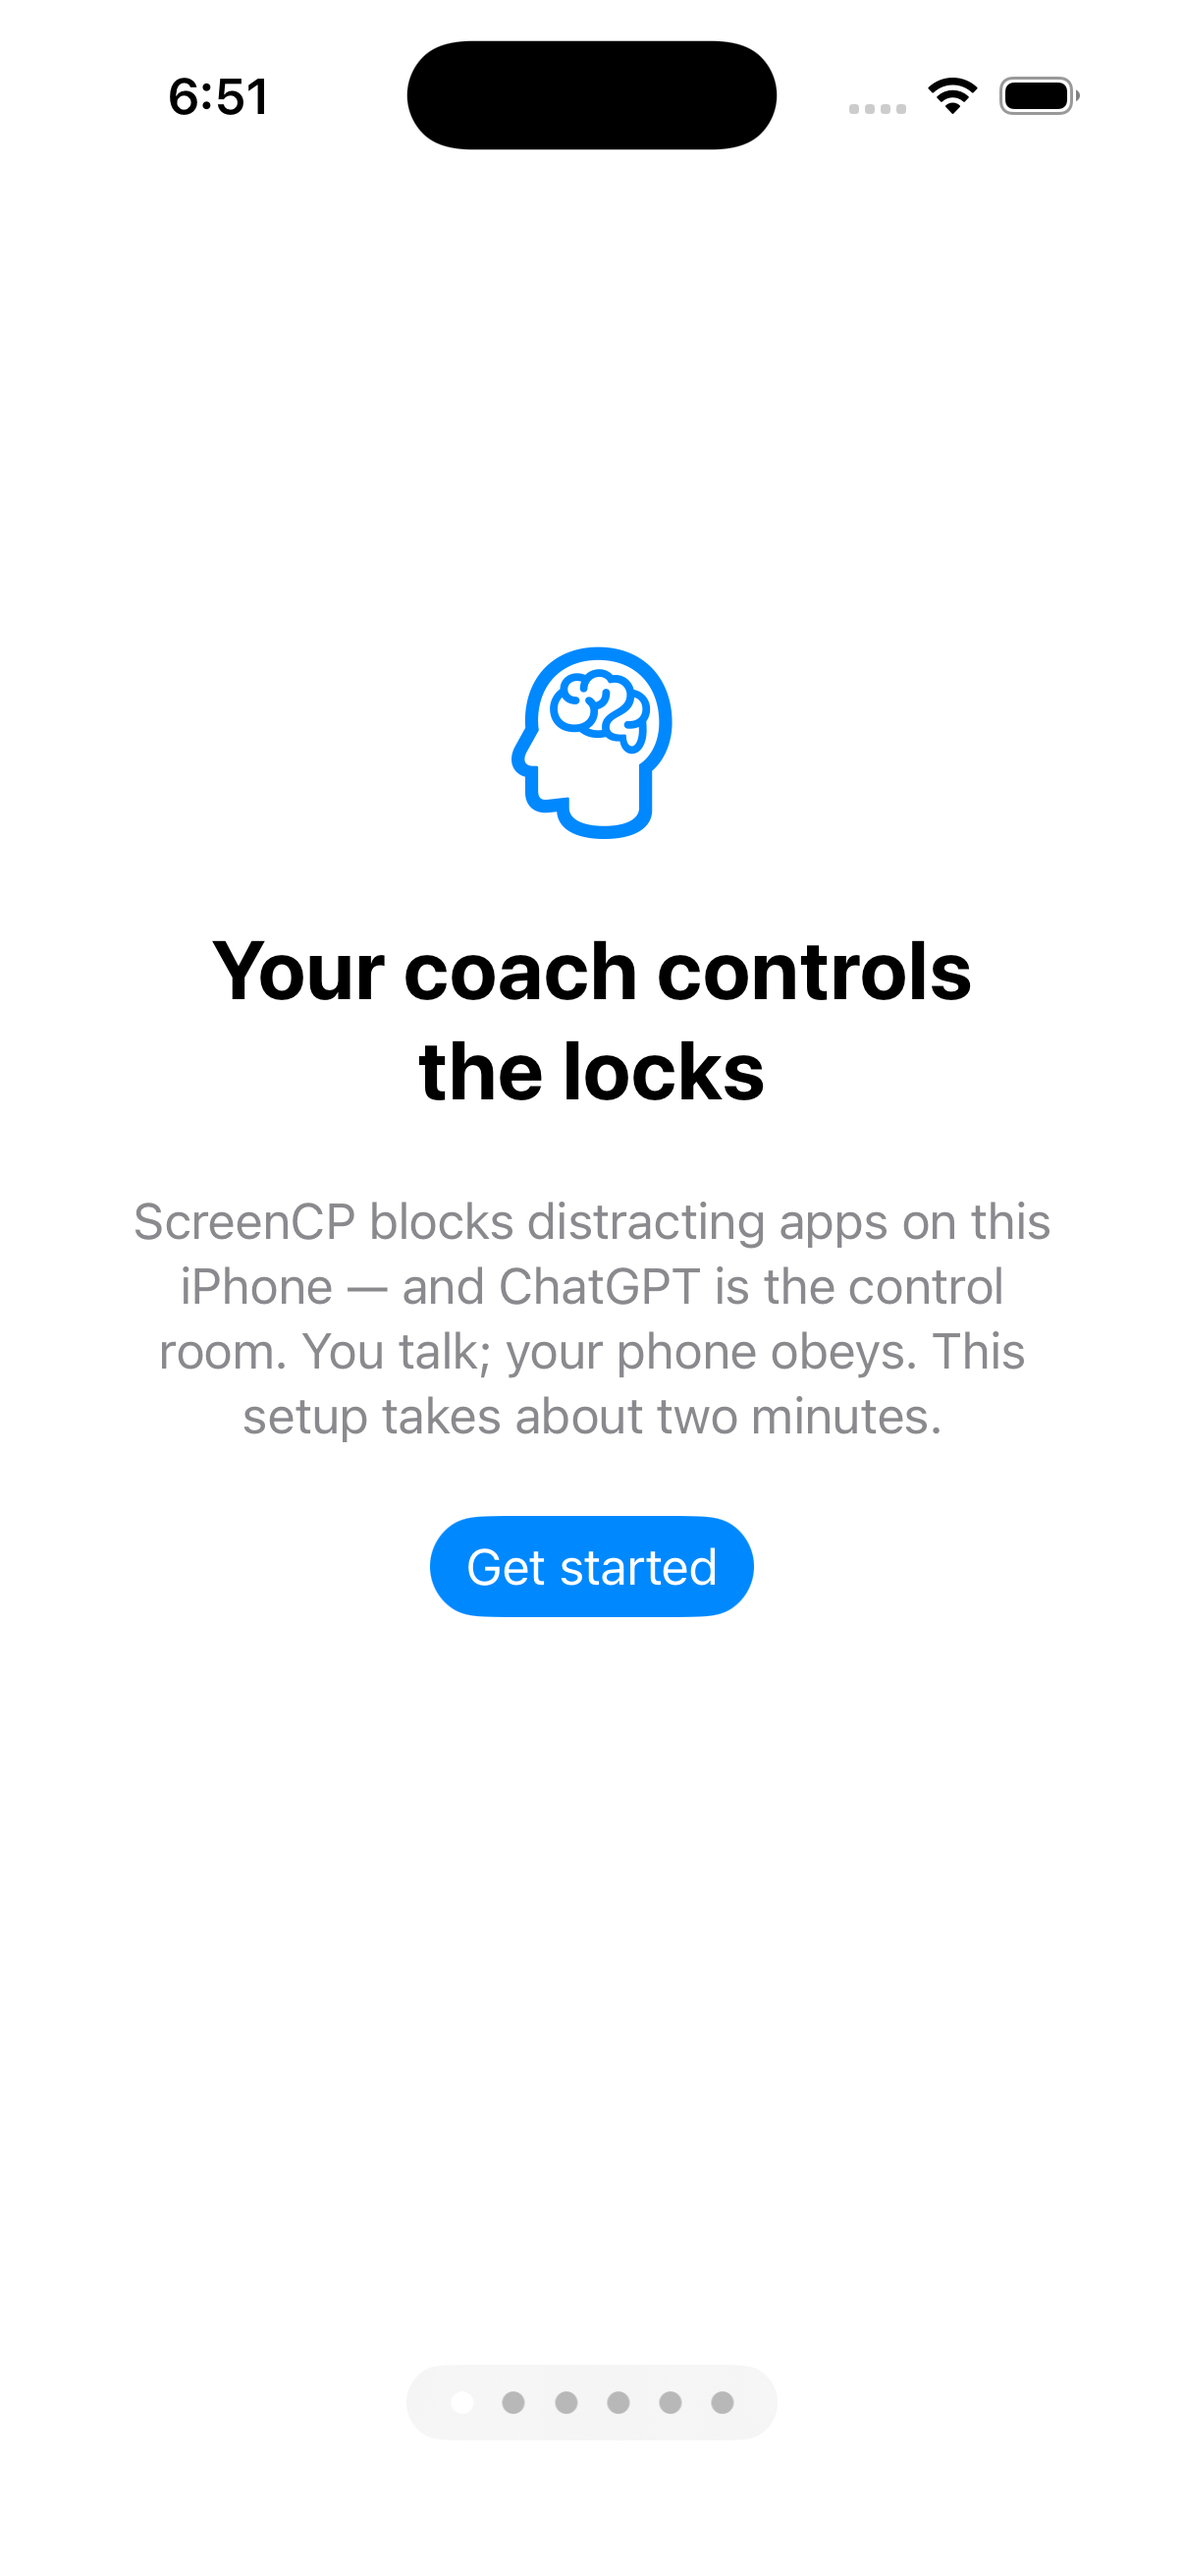
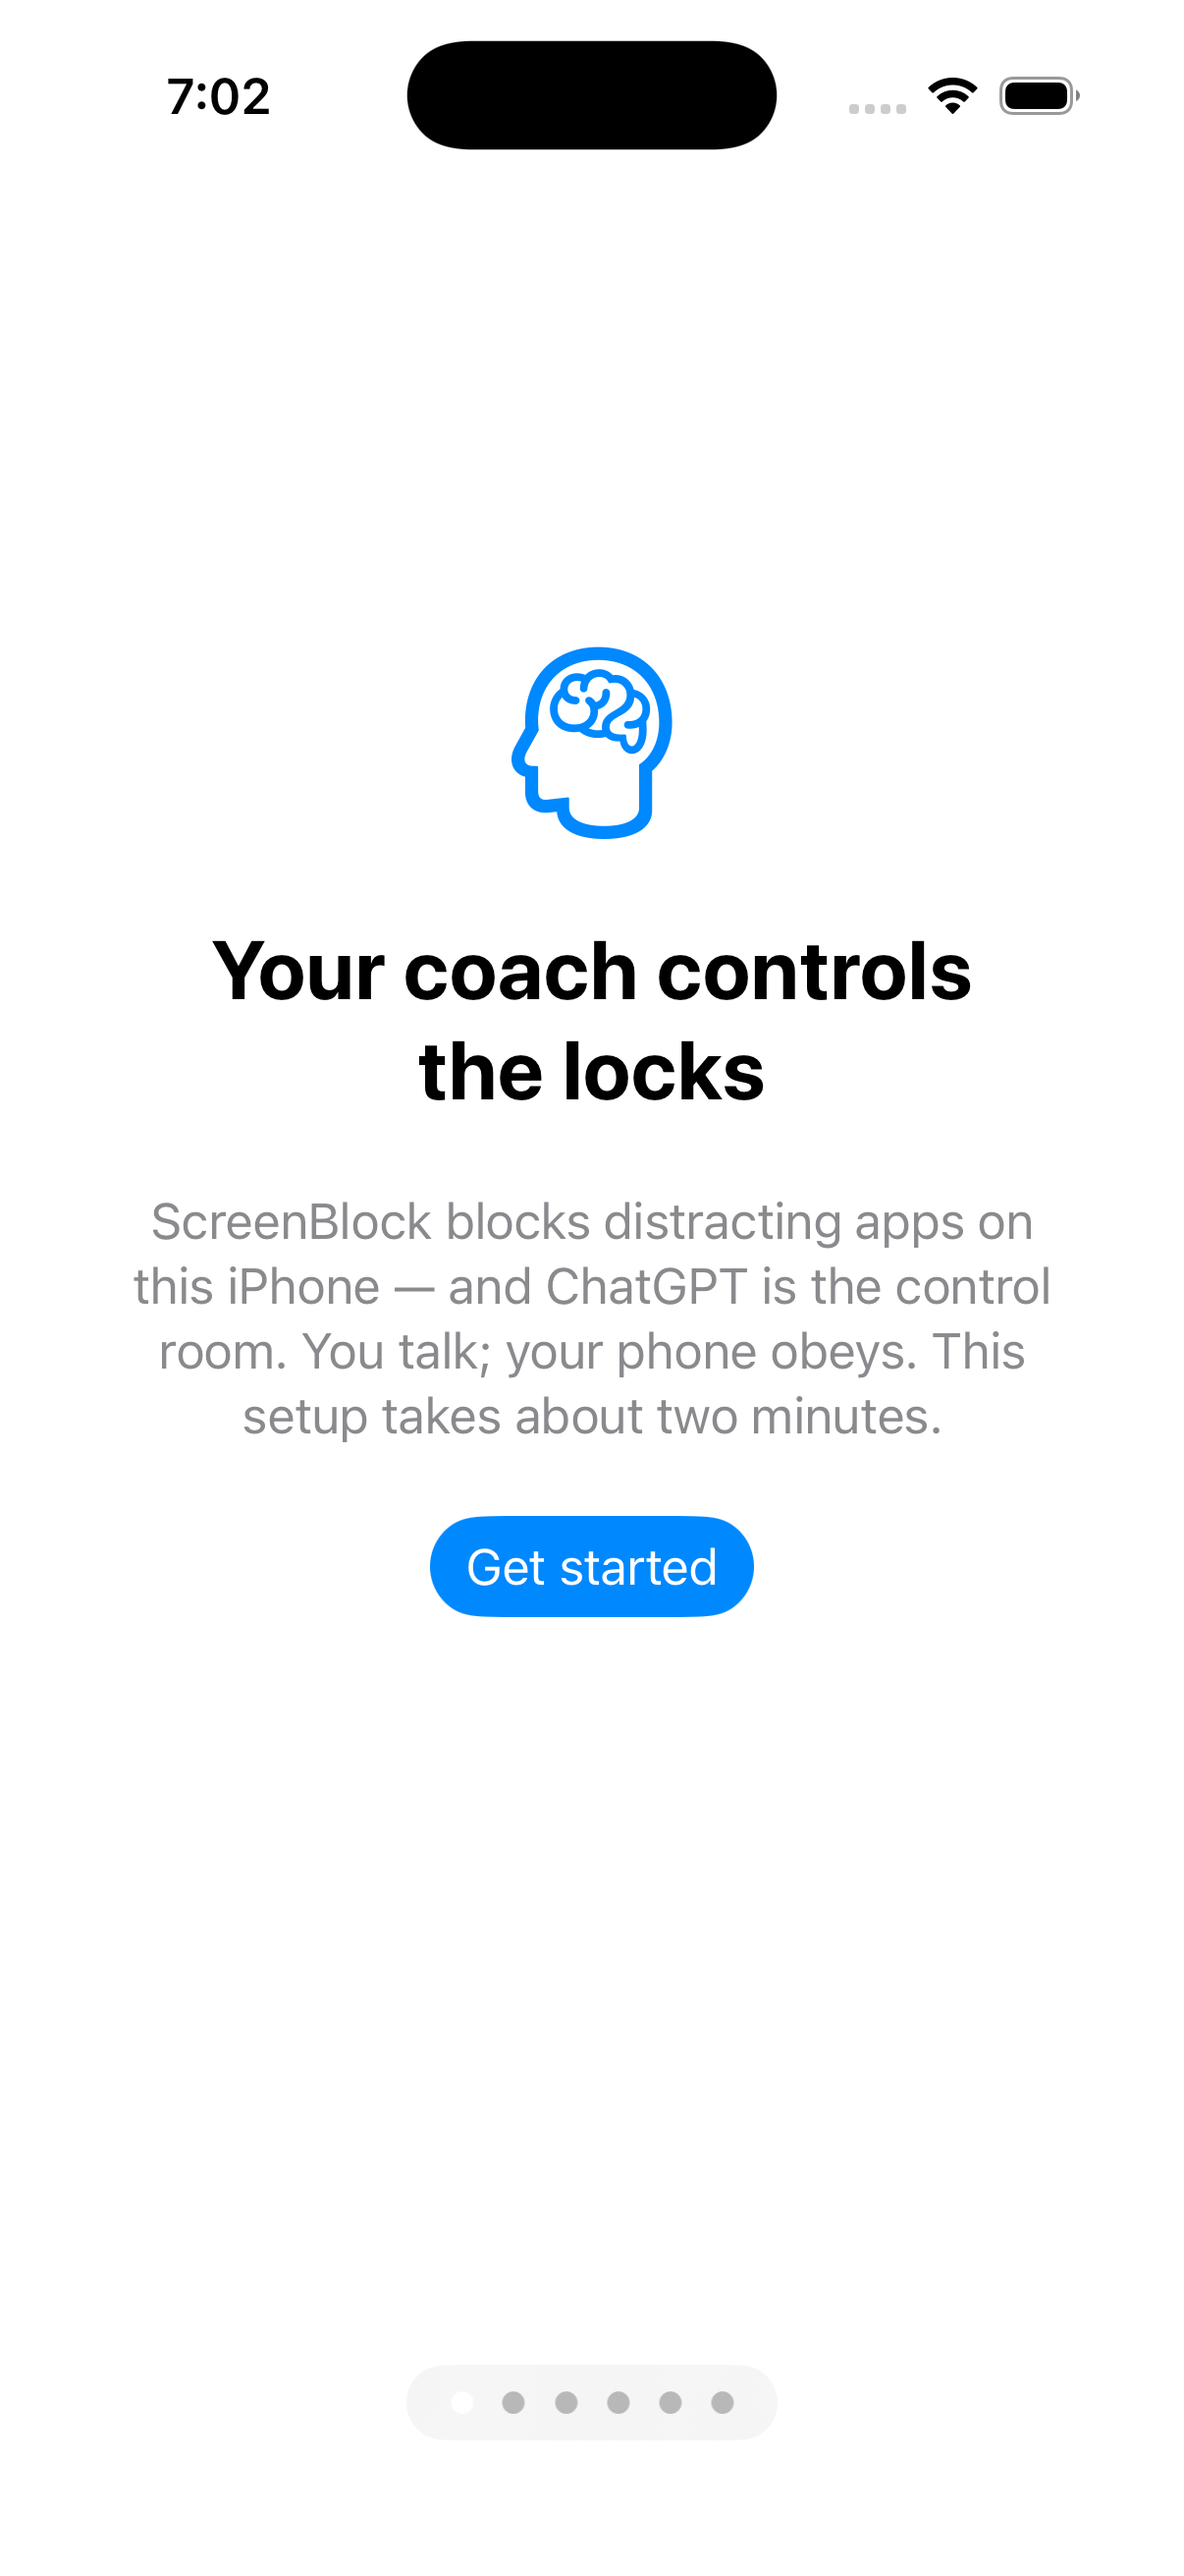
fix(apps): route remaining hardcoded ScreenCP strings through Brand; recapture screenshots

Changed region(s): [[0.1227, 0.4634, 0.8897, 0.5252], [0.1227, 0.0309, 0.2148, 0.0618]]

diff --git a/ios/ScreenCP/Sources/OnboardingView.swift b/ios/ScreenCP/Sources/OnboardingView.swift
@@ -46,7 +46,7 @@ struct OnboardingView: View {
 
     private var welcome: some View {
         pageBody(icon: "brain.head.profile", "Your coach controls the locks",
-                 "ScreenCP blocks distracting apps on this iPhone — and ChatGPT is the control room. You talk; your phone obeys. This setup takes about two minutes.") {
+                 "\(Brand.name) blocks distracting apps on this iPhone — and ChatGPT is the control room. You talk; your phone obeys. This setup takes about two minutes.") {
             Button("Get started") { withAnimation { page = 1 } }
                 .buttonStyle(.borderedProminent)
         }
@@ -188,7 +188,7 @@ struct OnboardingView: View {
 
     private var connect: some View {
         pageBody(icon: "bubble.left.and.text.bubble.right", "Connect your coach",
-                 "In ChatGPT: Settings → Apps & Connectors → enable Developer mode → Create, and paste your ScreenCP connector URL (you have it from setup). Then just talk:\n\n“Block Social till 5.”\n“Give me 15 minutes of Games.”\n“How did I do today?”") {
+                 "In ChatGPT: Settings → Apps & Connectors → enable Developer mode → Create, and paste your \(Brand.name) connector URL (you have it from setup). Then just talk:\n\n“Block Social till 5.”\n“Give me 15 minutes of Games.”\n“How did I do today?”") {
             Button("Done — start blocking") {
                 AppGroupStore.suite.set(true, forKey: "onboarded")
                 // Deferred from launch: notifications power the "tap to apply"

diff --git a/ios/ScreenCPApplier/Sources/NotificationService.swift b/ios/ScreenCPApplier/Sources/NotificationService.swift
@@ -21,7 +21,7 @@ final class NotificationService: UNNotificationServiceExtension {
         Task {
             let applied = await Self.syncAndApply()
             if applied, let content {
-                content.title = "ScreenCP"
+                content.title = Brand.name
                 // Keep the human message (celebrations, re-locks); the check mark
                 // signals it's already applied — no tap needed.
                 content.body = "✓ \(content.body)"

diff --git a/ios/ScreenCP/Sources/SpikeView.swift b/ios/ScreenCP/Sources/SpikeView.swift
@@ -52,7 +52,7 @@ struct SpikeView: View {
                     Section("Last error") { Text(lastError).font(.footnote) }
                 }
             }
-            .navigationTitle("ScreenCP Spike")
+            .navigationTitle("\(Brand.name) Spike")
             .familyActivityPicker(isPresented: $pickerPresented, selection: $selection)
             .onAppear {
                 authStatus = String(describing: AuthorizationCenter.shared.authorizationStatus)

diff --git a/ios/ScreenCP/Sources/ContentView.swift b/ios/ScreenCP/Sources/ContentView.swift
@@ -81,7 +81,7 @@ struct ContentView: View {
                     NavigationLink("Developer tools") { SpikeView() }
                 }
             }
-            .navigationTitle("ScreenCP")
+            .navigationTitle(Brand.name)
             .refreshable { await sync.syncNow(); await today.load() }
             .task { await sync.syncNow(); await today.load() }
             .onChange(of: scenePhase) { phase in

diff --git a/mac/ScreenCPMac/Sources/ScreenCPMacApp.swift b/mac/ScreenCPMac/Sources/ScreenCPMacApp.swift
@@ -18,7 +18,7 @@ struct ScreenCPMacApp: App {
     @Environment(\.openWindow) private var openWindow
 
     var body: some Scene {
-        MenuBarExtra("ScreenCP", systemImage: "hourglass") {
+        MenuBarExtra(Brand.name, systemImage: "hourglass") {
             SpikeMenu()
         }
         .menuBarExtraStyle(.window)
